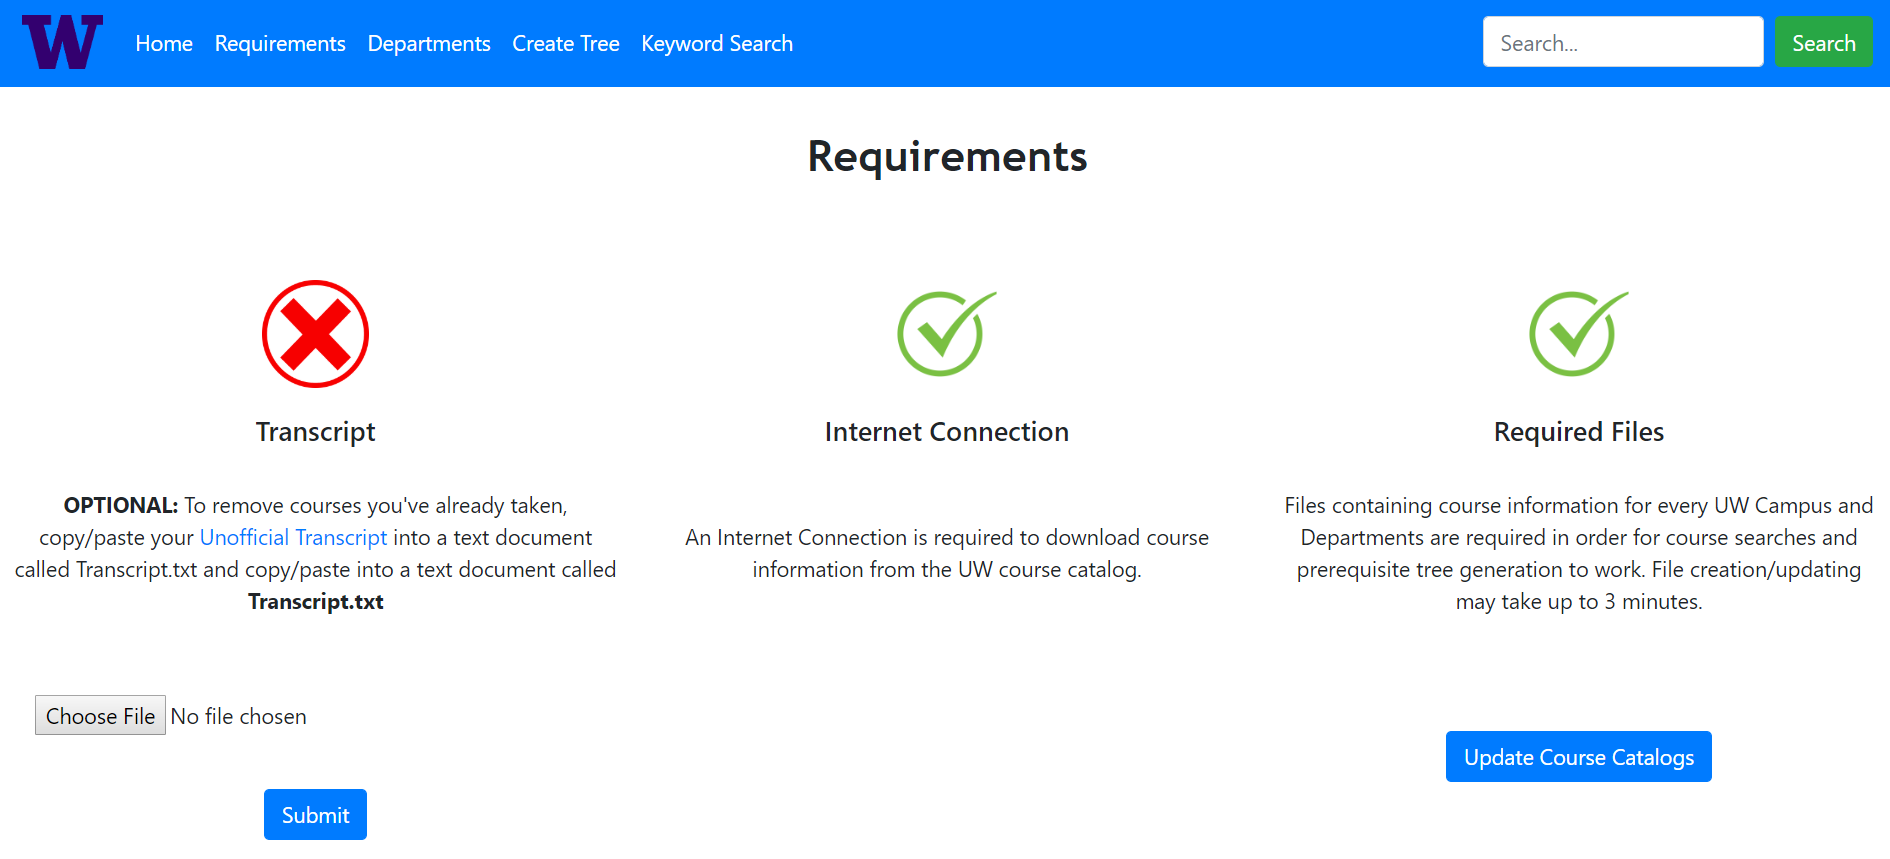
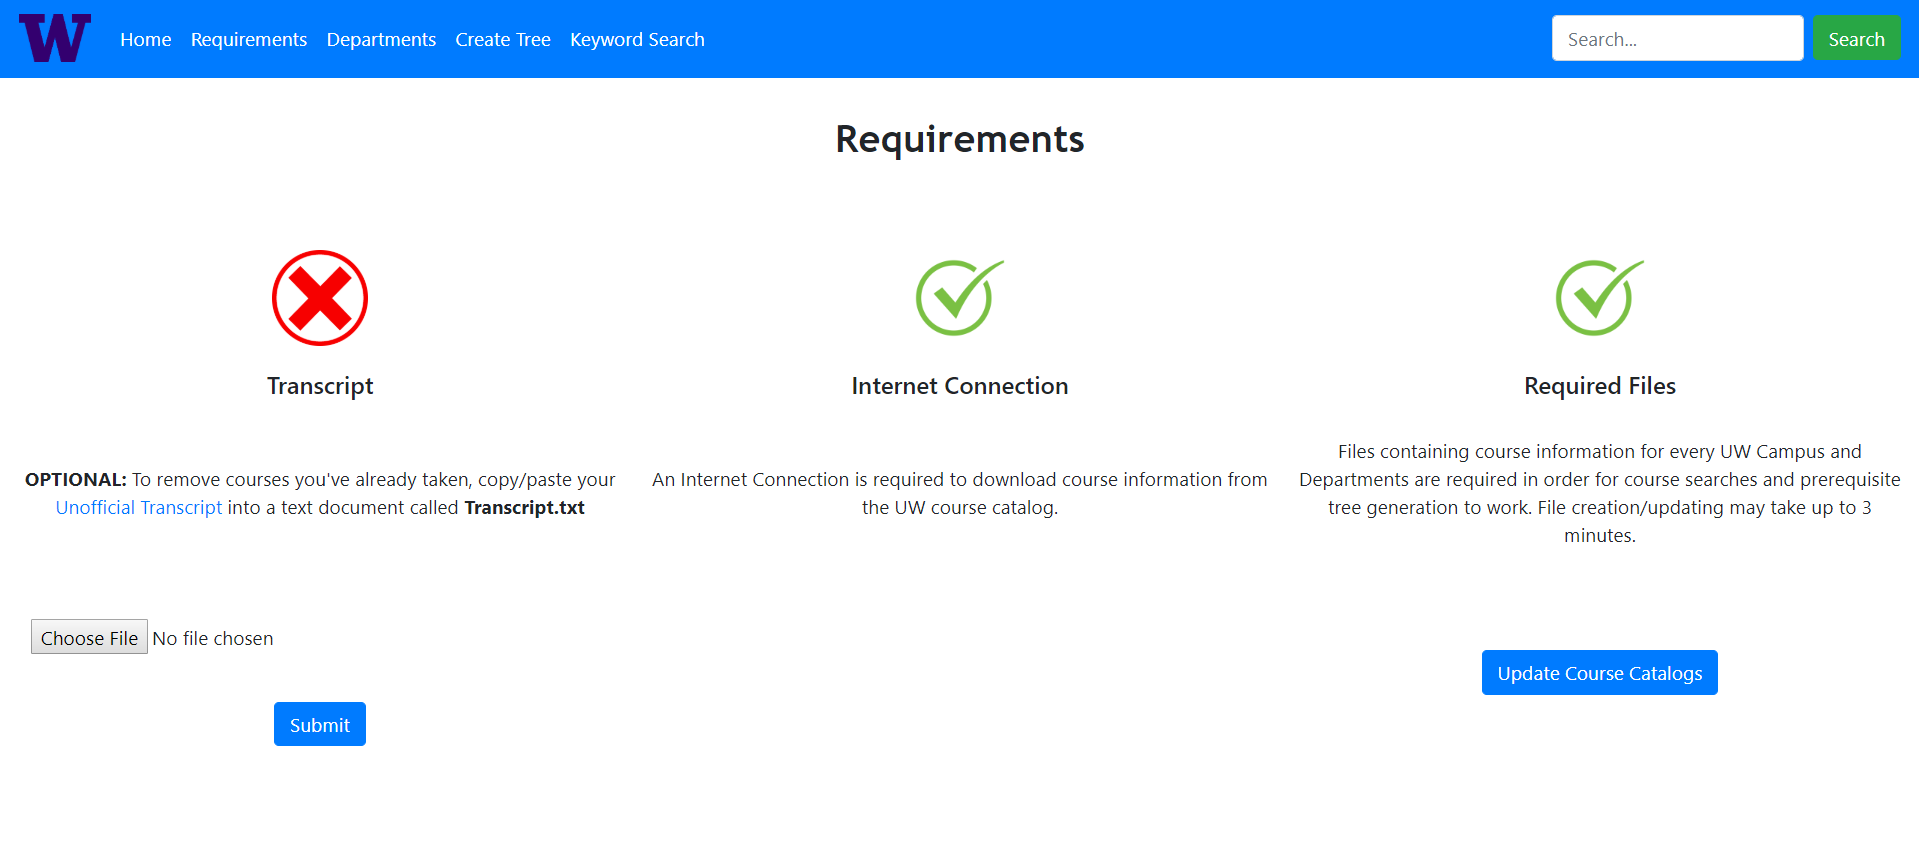
Fixed typo in requirements.html

diff --git a/templates/requirements.html b/templates/requirements.html
@@ -63,8 +63,7 @@
                 <p class="card-text">
                     <strong>OPTIONAL:</strong> To remove courses you've already taken, copy/paste your
                     <a href="https://myplan.uw.edu/" target="_blank">Unofficial Transcript</a> 
-                        into a text document called Transcript.txt and copy/paste into a text document 
-                        called <strong>Transcript.txt</strong> 
+                        into a text document called <strong>Transcript.txt</strong>
                 </p>
             </td>
             <td>
